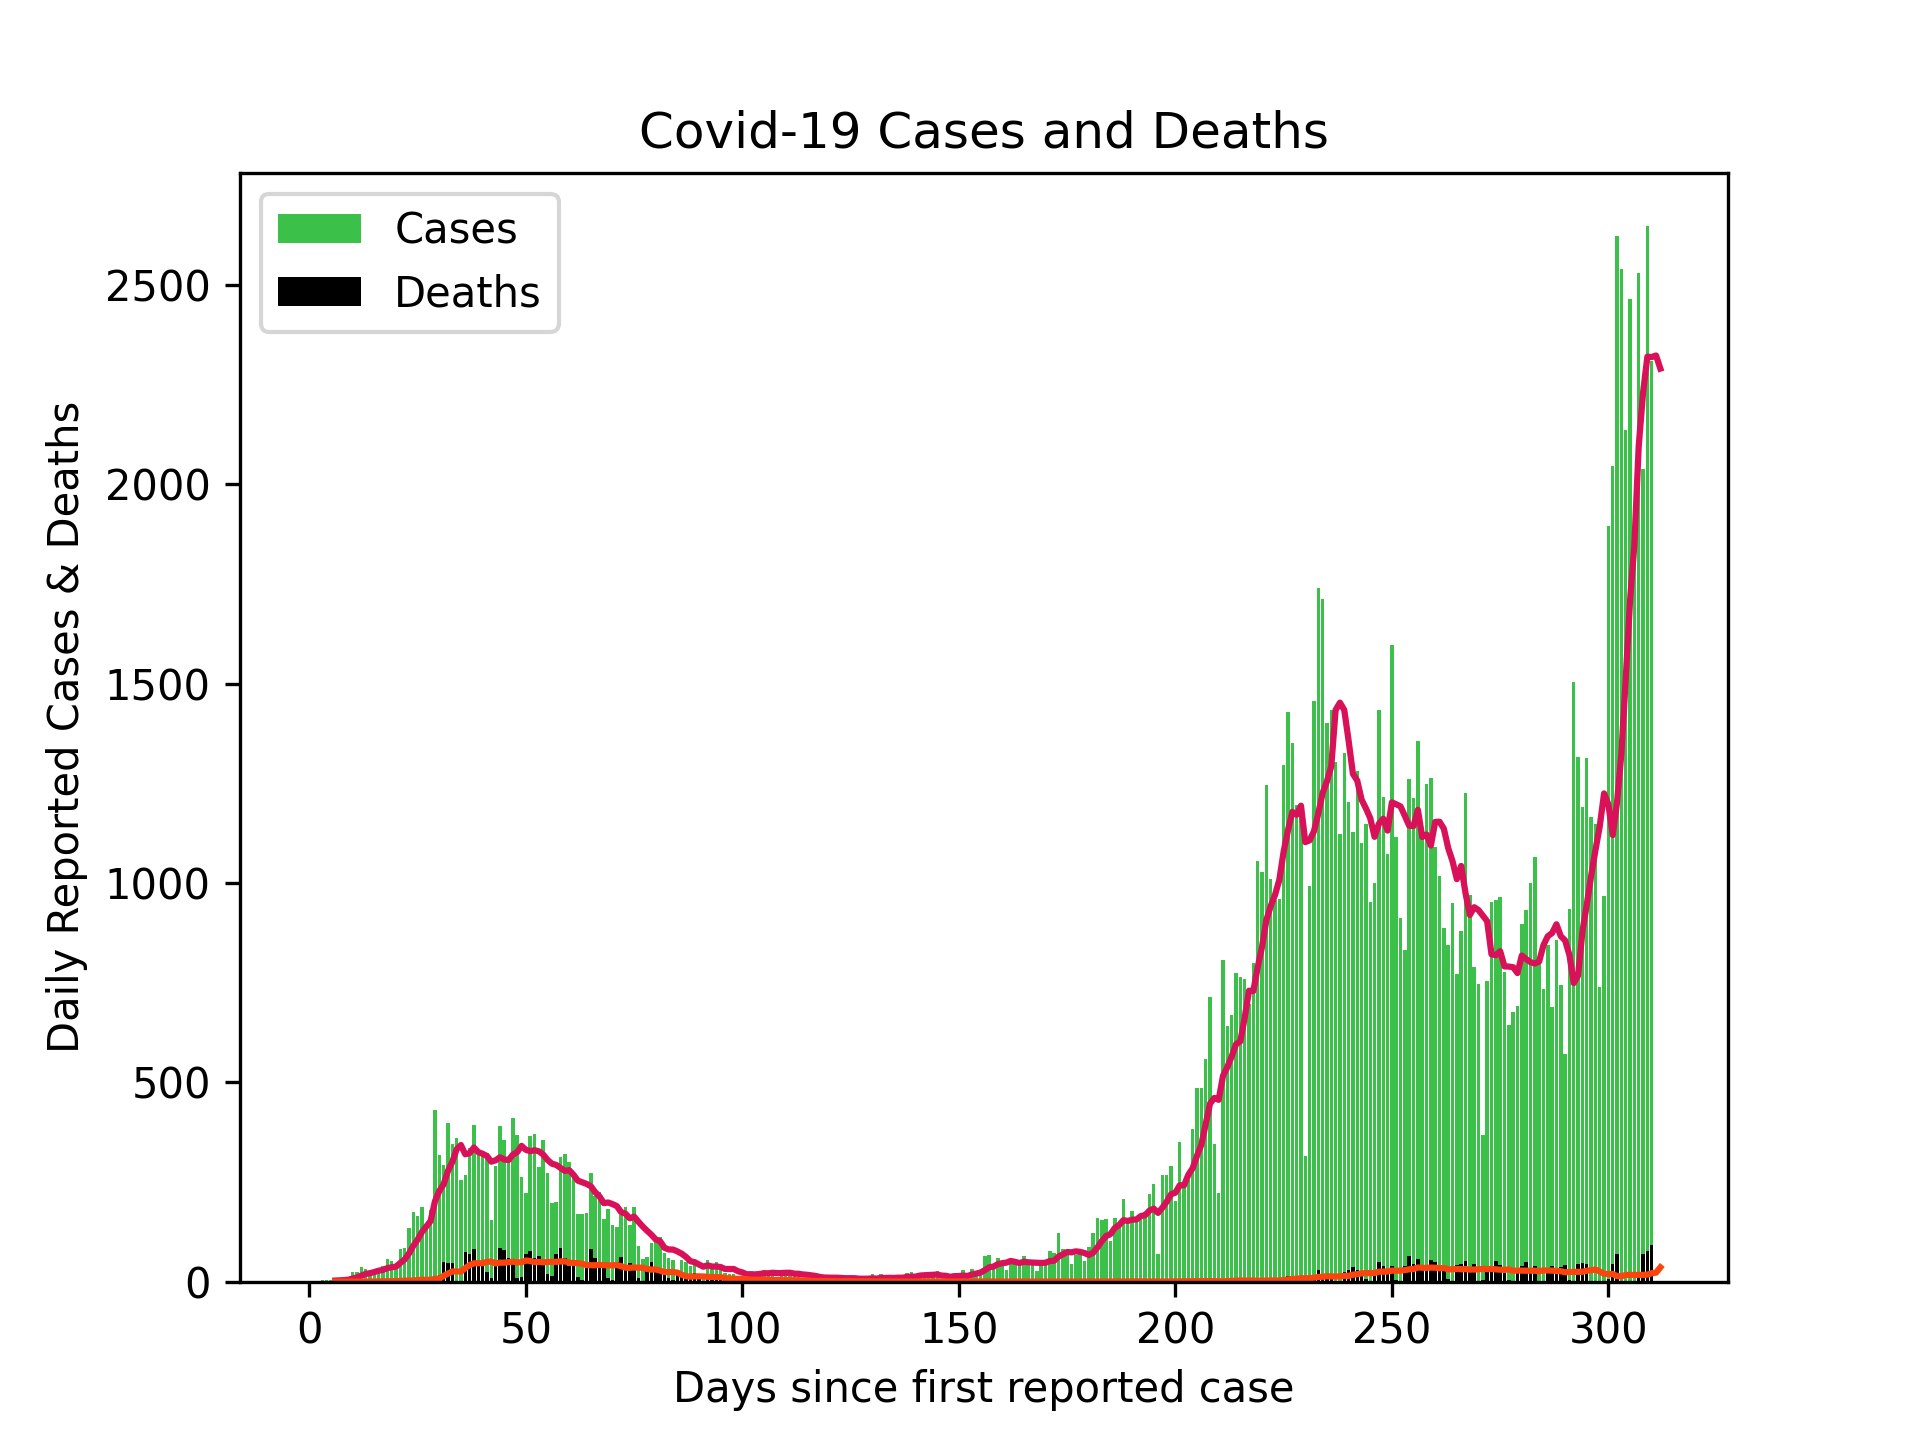
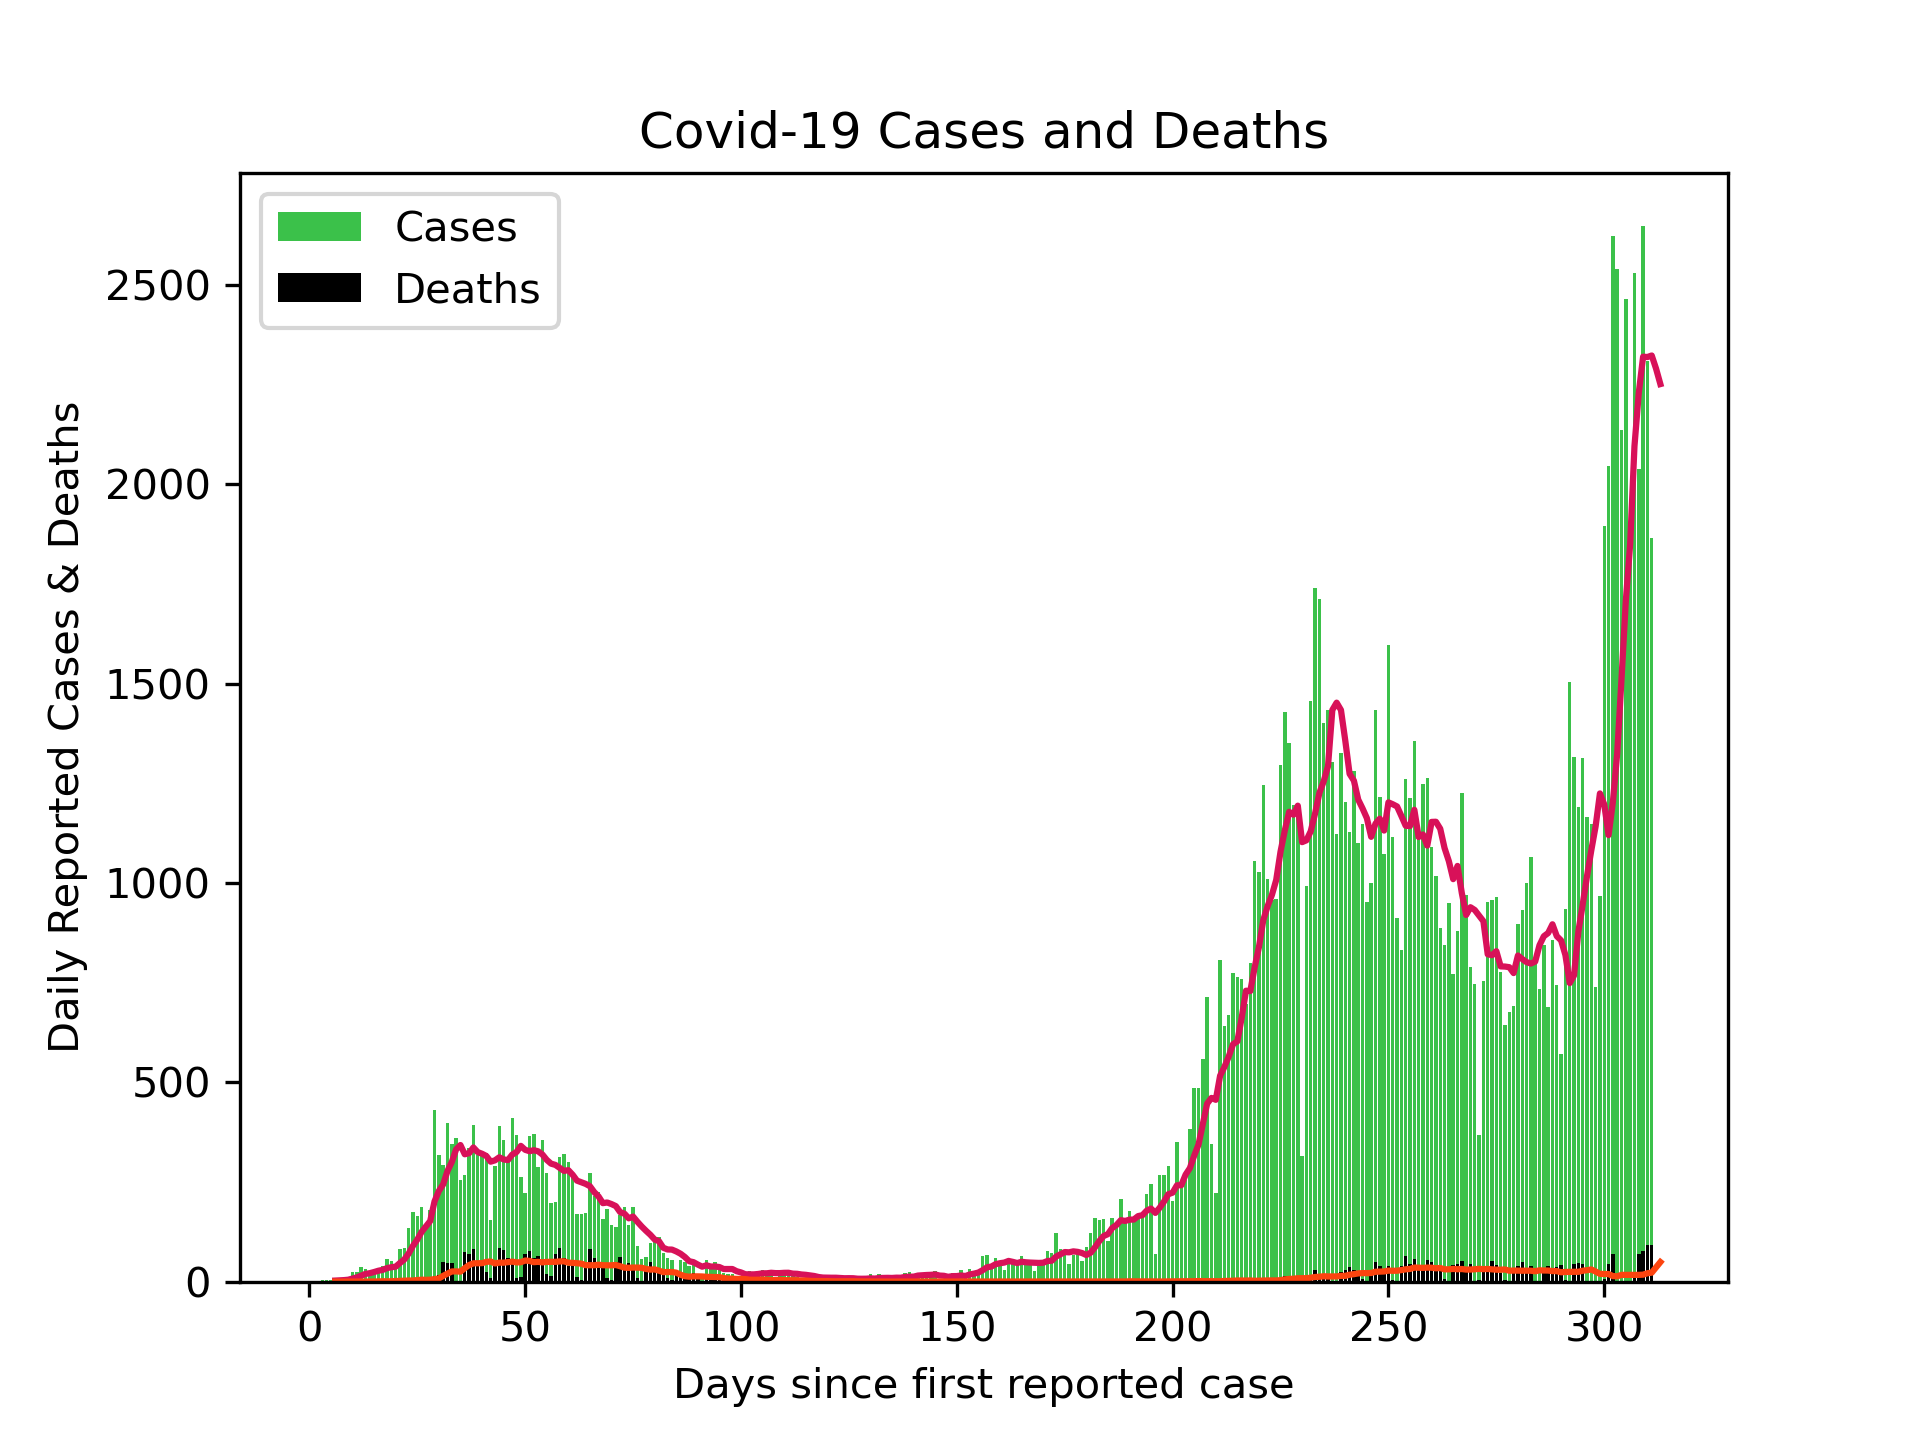
Updated 09/01/21

diff --git a/README.md b/README.md
@@ -1,4 +1,4 @@
-# Scottish Cases 08/01/21
+# Scottish Cases 09/01/21
 
 ![alt](scottish_cases.png)
 
